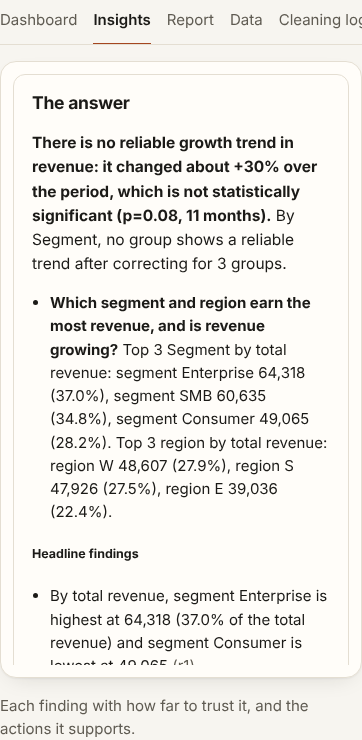
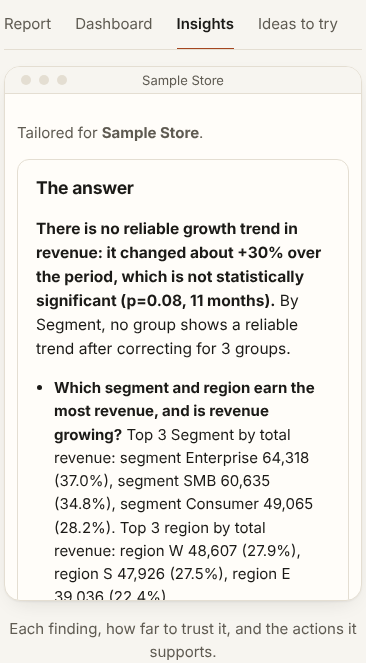
Task E: review fixes, screenshots, README and build log

diff --git a/frontend/src/start.css b/frontend/src/start.css
@@ -1,8 +1,8 @@
 /* The start page. Sections are on the 1120px column; reading text stops at 720px. */
 .start { display: grid; grid-template-columns: minmax(0, 1fr); gap: var(--sp-8); }
 .start > * { min-width: 0; }
-.start h2 { font-size: var(--fs-5); font-weight: 650; margin: 0 0 var(--sp-5); }
-.start h3 { margin: 0; font-size: var(--fs-3); font-weight: 600; }
+.start > section > h2 { font-size: var(--fs-5); font-weight: 650; margin: 0 0 var(--sp-5); }
+.how-flow h3, .trust h3, .limits h3, .story-steps h3 { margin: 0; font-size: var(--fs-3); font-weight: 600; }
 .hero { text-align: center; padding: var(--sp-6) 0 0; display: flex; flex-direction: column; align-items: center; gap: var(--sp-4); }
 .hero h1 { font-size: var(--fs-6); font-weight: 650; margin: 0; letter-spacing: -.025em; line-height: var(--lh-tight); max-width: none; text-wrap: balance; }
 .hero-sub { font-size: var(--fs-3); color: var(--muted); max-width: 52ch; margin: 0; }
@@ -34,7 +34,8 @@
 .how-flow h3 { margin-top: var(--sp-2); }
 .how-flow p { margin: 0 0 var(--sp-3); color: var(--muted); font-size: var(--fs-2); }
 .preview .drop { min-height: 300px; display: flex; flex-direction: column; justify-content: center; align-items: center; }
-.preview .plan ul { list-style: disc; padding-left: var(--sp-5); }
+.preview .plan ul { list-style: disc outside !important; padding-left: var(--sp-6) !important; margin: 0; }
+.preview .plan li { display: list-item; }
 .preview .plan h4 { margin: 0 0 var(--sp-2); }
 .preview { margin-top: auto; height: 200px; overflow: hidden; border: var(--border); border-radius: var(--radius); background: var(--card); pointer-events: none; }
 .preview-in { transform: scale(.5); transform-origin: top left; width: 200%; padding: var(--sp-4); }
@@ -65,9 +66,10 @@
   .story { grid-template-columns: 1fr; }
 }
 
-.trust { display: grid; grid-template-columns: repeat(3, minmax(0, 1fr)); column-gap: var(--gutter); }
+.trust { font-size: var(--fs-2); color: var(--ink); margin: 0; display: grid; grid-template-columns: repeat(3, minmax(0, 1fr)); column-gap: var(--gutter); }
 .trust > div { border-top: 1px solid var(--ink); padding-top: var(--sp-4); }
-.trust p { margin: var(--sp-2) 0 0; color: var(--muted); }
+.trust h3 { font-size: var(--fs-3); }
+.trust p { margin: var(--sp-2) 0 0; color: var(--muted); font-size: var(--fs-2); }
 .limits-cols { display: grid; grid-template-columns: repeat(2, minmax(0, 1fr)); column-gap: var(--gutter); }
 .limits-cols > div { border-top: var(--border); padding-top: var(--sp-4); }
 .limits ul { margin: var(--sp-3) 0 0; padding-left: var(--sp-5); display: grid; gap: var(--sp-2); color: var(--muted); }
@@ -78,7 +80,7 @@
   .hero-sub { font-size: var(--fs-2); }
   .trust, .limits-cols { grid-template-columns: 1fr; row-gap: var(--sp-5); }
   .start { gap: var(--sp-7); }
-  .start h2 { font-size: var(--fs-4); }
+  .start > section > h2 { font-size: var(--fs-4); }
   .window-body { padding: var(--sp-3); }
 }
 
@@ -90,3 +92,6 @@
 .start-form input[type="text"], .start-form input:not([type]), .start-form select, .start-form textarea { font: inherit; font-size: var(--fs-2); color: var(--ink); background: var(--bg); border: var(--border); border-radius: 10px; padding: var(--sp-3) var(--sp-4); width: 100%; }
 .start-form .primary { background: var(--brand); color: var(--brand-ink); border: 0; border-radius: 999px; padding: var(--sp-3) var(--sp-5); font: inherit; font-weight: 600; cursor: pointer; }
 .start-form .primary:disabled { opacity: .55; }
+
+/* the story window is a picture that follows the text: it must not take the scroll wheel from the page */
+.story-window .scaled { overflow: hidden; }

diff --git a/frontend/src/chat.css b/frontend/src/chat.css
@@ -2,7 +2,7 @@
 .chat { background: var(--card); border: var(--border); border-radius: var(--radius); display: flex; flex-direction: column; position: sticky; top: var(--sp-4); height: min(640px, calc(100vh - 2 * var(--sp-4))); overflow: hidden; }
 .chat-head { display: flex; justify-content: space-between; align-items: center; padding: var(--sp-3) var(--sp-4); border-bottom: var(--border); }
 .chat-head h2 { margin: 0; font-size: var(--fs-3); }
-.chat-list { flex: 1; overflow: auto; padding: var(--sp-4); display: flex; flex-direction: column; gap: var(--sp-3); }
+.chat-list { flex: 1; overflow: auto; position: relative; padding: var(--sp-4); display: flex; flex-direction: column; gap: var(--sp-3); }
 .chat-list > p { margin: 0; font-size: var(--fs-2); }
 .chat-pins { color: var(--muted); font-size: var(--fs-1); }
 .msg { max-width: 92%; padding: var(--sp-3) var(--sp-4); border-radius: var(--radius); font-size: var(--fs-2); }
@@ -15,7 +15,7 @@
 .chat-chart { width: 100%; height: auto; border-radius: 8px; background: #fff; }
 .msg-tools { display: flex; gap: var(--sp-4); font-size: var(--fs-1); }
 .chat-chips { display: flex; flex-wrap: wrap; gap: var(--sp-2); padding: var(--sp-3) var(--sp-4) 0; }
-.chat > .chat-chips { max-height: 128px; overflow-y: auto; }
+.chat > .chat-chips { max-height: 140px; overflow-y: auto; }
 .msg .chat-chips { padding: 0; }
 .chat-input { display: flex; gap: var(--sp-2); padding: var(--sp-3) var(--sp-4) var(--sp-4); }
 .chat-input input { flex: 1; min-width: 0; font: inherit; font-size: var(--fs-2); color: var(--ink); background: var(--bg); border: var(--border); border-radius: 999px; padding: var(--sp-2) var(--sp-4); }

diff --git a/scripts/landing_screenshots.js b/scripts/landing_screenshots.js
@@ -72,7 +72,7 @@ async function set(browser, name, viewport, mobile, scheme) {
       await page.waitForTimeout(120);
     }
   };
-  for (const [i, tag] of [[0, "story-1"], [3, "story-4"]]) {
+  for (const [i, tag] of [[0, "story-1"], [3, "story-4"], [4, "story-5"]]) {
     await toStep(i);
     await settle(page, 1300);
     await shot(tag);
@@ -89,6 +89,8 @@ async function set(browser, name, viewport, mobile, scheme) {
   await page.evaluate(() => window.scrollTo(0, 0));
   await page.waitForSelector(".report-page");
   await settle(page);
+  await page.evaluate(() => window.scrollTo(0, 0));
+  await page.waitForTimeout(300);
   await shot("report-top");
   await page.locator(".rp-chart").first().evaluate((el) => el.scrollIntoView({ block: "start" }));
   await settle(page, 500);
@@ -111,6 +113,11 @@ async function set(browser, name, viewport, mobile, scheme) {
   await page.emulateMedia({ media: "print" });
   await page.waitForTimeout(300);
   await shot("print-view");
+  await page.emulateMedia({ media: "screen" });
+  await page.goto(`${BASE}/#/glossary`, { waitUntil: "networkidle" });
+  await page.evaluate(() => window.scrollTo(0, 0));
+  await settle(page, 600);
+  await shot("glossary");
   await ctx.close();
 }
 

diff --git a/frontend/src/components/ChatPanel.tsx b/frontend/src/components/ChatPanel.tsx
@@ -71,7 +71,11 @@ export default function ChatPanel({ runId, onClose, embedded = false }: { runId:
     api.askInfo(runId).then((i) => { setInfo(i); setItems(i.history); }).catch(() => setError("Questions are not available for this report."));
   }, [runId]);
   useEffect(() => {
-    if (list.current) list.current.scrollTop = list.current.scrollHeight;      // new messages show at the bottom of the list; the page itself does not move
+    const l = list.current;
+    if (!l) return;
+    const all = l.querySelectorAll<HTMLElement>("[data-entry]");
+    const last = all[all.length - 1];      // show the start of the newest answer; the page itself does not move
+    l.scrollTop = busy ? l.scrollHeight : last ? last.offsetTop - 8 : 0;
   }, [items, busy]);
 
   async function send(body: { question?: string; chip?: string }) {
@@ -113,7 +117,7 @@ export default function ChatPanel({ runId, onClose, embedded = false }: { runId:
           </p>
         )}
         {items.map((e) => (
-          <div key={e.id}>
+          <div key={e.id} data-entry>
             <div className="msg me">{e.question}</div>
             <Answer entry={e} runId={runId} onAsk={ask} onPin={pin} />
           </div>

diff --git a/frontend/src/components/Results.tsx b/frontend/src/components/Results.tsx
@@ -45,7 +45,7 @@ export default function Results({ run }: { run: RunResult }) {
     <div className={`card results ${full ? "is-full" : ""}`} ref={card}>
       <div className="results-actions">
         <button className="btn-quiet" onClick={() => setReview((v) => !v)} title="See, change or re-ask the answers this run used">Review answers</button>
-        <button className="btn-quiet" onClick={toggleFull} title="Full screen (Esc to exit)">{full ? "Exit full screen" : "Full screen"}</button>
+        <button className="btn-quiet hide-phone" onClick={toggleFull} title="Full screen (Esc to exit)">{full ? "Exit full screen" : "Full screen"}</button>
         <a className="btn" href={api.powerbiUrl(run.run_id)}>Download Power BI pack</a>
       </div>
       <div className="tabs">

diff --git a/frontend/src/theme.css b/frontend/src/theme.css
@@ -54,3 +54,11 @@ code, pre, .mono { font-family: ui-monospace, SFMono-Regular, Menlo, Consolas, m
 .results-actions { display: flex; justify-content: flex-end; align-items: center; gap: var(--sp-2); flex-wrap: wrap; margin-bottom: var(--sp-3); }
 .results-actions .btn-quiet, .results-actions .btn { min-height: 36px; font-size: var(--fs-1); }
 .side-toggle { background: none; border: 0; color: var(--muted); font-size: var(--fs-1); box-shadow: none; padding: var(--sp-2) 0; cursor: pointer; }
+
+@media (max-width: 720px) {
+  .tabs { flex-wrap: nowrap; overflow-x: auto; scrollbar-width: none; }
+  .tabs::-webkit-scrollbar { display: none; }
+  .tab { flex: 0 0 auto; white-space: nowrap; }
+  .results-actions { justify-content: flex-start; }
+  .hide-phone { display: none; }
+}

diff --git a/frontend/src/polish.css b/frontend/src/polish.css
@@ -83,8 +83,6 @@ textarea:focus, .ctx-grid input:focus, .ctx-grid select:focus, .ctx-grid textare
 .recent-item { border-radius: 14px; background: var(--card); box-shadow: var(--shadow); transition: transform .15s, border-color .15s; padding: 12px 14px; }
 .recent-item:hover { transform: translateX(3px); }
 .dot-running, .dot-queued { animation: pulse 1.6s infinite; }
-.trust { display: flex; flex-wrap: wrap; justify-content: center; gap: 18px; margin: 22px 0 0; font-size: 12.5px; color: var(--muted); }
-.trust span::before { content: "✓"; color: var(--ok); font-weight: 700; margin-right: 6px; }
 
 /* run view / timeline */
 .side h3 { font-size: 13px; text-transform: uppercase; letter-spacing: .08em; color: var(--muted); }

diff --git a/frontend/src/landing.css b/frontend/src/landing.css
@@ -1,7 +1,6 @@
 /* Shared pieces kept from the earlier design: the agent flowchart, cards and small components. */
 .shell { max-width: 1180px; }
 .home { max-width: 1120px; }
-.home .form, .home .recent, .home .trust { max-width: 820px; margin-left: auto; margin-right: auto; }
 .home .form { margin-top: 8px; scroll-margin-top: 90px; }
 .home .recent { margin-top: 28px; }
 .ghost { display: inline-block; padding: 12px 20px; border-radius: 10px; font-weight: 600; font-size: 15px; color: var(--ink); text-decoration: none; border: 1px solid var(--line); background: var(--card); transition: border-color .15s, color .15s; }

diff --git a/frontend/src/components/StartPage.tsx b/frontend/src/components/StartPage.tsx
@@ -29,7 +29,7 @@ function Scaled({ children, design = 1040, height }: { children: React.ReactNode
     if (!el || typeof ResizeObserver === "undefined") return;
     const ro = new ResizeObserver(() => {
       const w = el.clientWidth;
-      setZoom(w >= 640 && w < design ? w / design : 1);
+      setZoom(w >= 520 && w < design ? w / design : 1);
     });
     ro.observe(el);
     return () => ro.disconnect();

diff --git a/scripts/build_log_v3.md b/scripts/build_log_v3.md
@@ -1,0 +1,92 @@
+# Build log: studio-v3
+
+Branch `studio-v3`, created from `studio-v2` (`4e253e1`, "Task 5: polish, screenshots and README"). `main`, `backup-cleaned` and `studio-v2` were not touched. Commits are plain messages with no attribution lines.
+
+## Result
+
+- **Full test suite:** 701 passed, 0 failed, in 141.9 s (2 min 22 s), on the final working tree (`cd backend && pytest tests -q`).
+- **Frontend:** `npm run build` (tsc + vite) passes. There is no frontend test framework in the repo, so the interface was checked with Playwright screenshots (see below), plus a script that measured the page for horizontal overflow on a phone.
+- **Report check on the shipped sample run:** 7 of 7 rules pass.
+- **Screenshots:** `docs/screenshots/` (1280x800 and 390x844, light and dark where listed). Taken by `scripts/landing_screenshots.js`. Two review rounds were used.
+
+## Done
+
+### Task A: start page, product first
+1. **Hero:** "Know your sales. Trust every number." (6 words), one supporting line, **Try it yourself** (primary) and **Try with sample data** (secondary). No upload form in the hero.
+2. **Try it yourself** opens a dialog (a full-screen sheet on a phone). It closes with Escape, the Close button, or a click outside; focus stays inside; focus returns to the button when it closes. It holds the whole existing flow: drag and drop, goal, company and the other fields, the "I'm not sure what to look for" option and the start button. **Try with sample data** opens the full app on the read-only sample run.
+3. **Product tour** under the hero: a tab row named after the app's real tabs, a framed window with a small title bar, a short fade, and one line under the frame that explains the tab. The window renders the real components (the same `TabBody` the results page uses) on the sample run, scaled to fit, clickable, with no AI and no upload. At 1280x800 the tab row and the top of the window are visible without scrolling.
+4. **How it works:** four numbered steps joined by a thin line, one sentence each, and a small inert preview of a real piece of the app for each. Under 800 px it is a vertical list with the line down the side.
+5. **Scroll story:** two columns, a sticky window on the left and five text blocks on the right ("It asks before it assumes", "Every figure is calculated by code", "Only what matters", "Ask questions about your report", "Print or save as PDF"). The window and the tour tab follow the block in view, including the report with the chat panel open and with the print panel open. With reduced motion it is a normal list.
+6. **Trust:** three statements, no icons, each a bold line and one sentence.
+7. **What it can and can't do:** two columns taken from the README's Known limits.
+8. **Closing block** with the same two buttons, then a quiet footer.
+- Header: logo, New analysis (opens the dialog at `#/new`), History, Glossary. The "Brain: rules-only" pill is gone from the header and from the results toolbar. The mode is a line in the report footer.
+
+### Task B: the report as a designed page
+- Backend: `reporter._page` saves the main view as data (`report_view.page`): the same cards, actions, figures and chart captions as the markdown, in the same words. No calculation or wording logic changed. Old runs without it fall back to the plain report.
+- Page: title, date, "How sure we are" pill, Print and Ask buttons top right; the short answer in large type; key figures as tiles of equal height; **What to do** as numbered cards (title, one line of why, the supporting figure); **The evidence** (at most six charts in a two-column grid, each with a title, direct value labels, "What this means" and a Details toggle); **Behind the numbers** (everything else, folded); a footer with the mode, the size of the data and the date.
+
+### Task C: one look for the whole app
+- Charts drawn by the server and by the interface share one style: the accent for the highlighted bar, warm grey for the rest, direct value labels, the same font. The dashboard was a dark canvas; it is now light and uses the same tokens, cards and tables. Tables share one style: light row lines, right-aligned numbers, sticky header (`layout.css`, `Md.tsx`).
+- Removed: the grid backdrop, the glass header, the blur on modals, the hero rules of the earlier landing page, the old `.trust` rule, the dark chart text colours and the blue chart bars.
+- Agent pills in the timeline are one neutral colour. Tab names are plain (**Ideas to try**, **Your data**, **What we cleaned**, **How we analysed**, **How files connect**, **Power BI export**) and shared by the results page and the tour (`tabs.ts`).
+- Internal reference ids such as "(r1)" and "(f4)" are no longer printed in the Insights tab (they stay as hover text). The Plan tab now says "Number we focus on", "Date used" and "What we left out" instead of "agent", "Target" and raw tool names.
+
+### Task D: a proper chatbot
+- **Entry and panel:** an **Ask about this report** button opens a chat panel docked on the right on a desktop (the report stays readable beside it) and a bottom sheet on a phone. It has a title, a message list, an input with Send, and 4 to 6 suggested-question chips written from this report's own content.
+- **Chips run without AI.** Each chip carries its operation and runs directly. A typed question that clearly matches a chip (close text) runs that chip. Anything else, with no model, gets the chips offered. The sample run never calls a model, even when one is configured.
+- **With a model:** the AI picks one operation from the closed list; code validates it against the run's real columns and values, runs it and draws the chart. A question that does not fit says so and offers two it can answer.
+- **Answers:** a plain sentence, a small table or chart, a **How this was calculated** toggle (operation and columns), Pin and Copy. Typing indicator, friendly error, per-run history kept in `chat.json` (the 50 latest).
+- **Flag:** `CHATBOT=auto` (default: on when a model is available and always on for the sample), `on` or `off`.
+- **Tests** (`backend/tests/test_ask_report.py`, fake AI only): every chip runs with the model call patched to fail; a chip's figure equals an independent pandas sum; a typed question matching a chip runs it with zero model calls; an unsupported question, an invented column and an invented value are refused politely; flag modes; the sample chat works for real through the API; the sample never calls a model.
+
+### Task E: self-review loop (two rounds)
+Round 1 found and fixed: the page opened already scrolled (the timeline preview auto-scrolled); the preview boxes were different heights; the sticky window did not stick (`overflow-x: hidden` on `html, body`, now `clip`); the chat panel started below the fold and its two scroll calls fought each other; the tile numbers split mid-number; the results toolbar wrapped into two rows; the toolbar and the chart cards were inconsistent; internal ids and agent wording were visible; dark chart text was unreadable on the light dashboard.
+Round 2 found and fixed: **the start page was 736 px wide on a 390 px phone** (the grid let the tab row set the column width; the overflow was hidden by the clip, so it was not visible in a screenshot until a tab could not be tapped), the story window captured the scroll wheel, the embedded chat rendered cramped and its title huge (start-page heading rules leaked into it), the trust section inherited a small grey style from an old rule, the question preview had no bullets, and the phone tab row wrapped onto three lines.
+
+## Skipped, partial, or different from the brief
+
+- **No frontend unit tests.** The repo has no frontend test setup, and adding one was outside "no new libraries unless really needed". Behaviour was checked in a real browser instead.
+- **"How it works" previews:** step 1 is a static copy of the drop zone's markup and classes, not the live upload component. Step 2 shows the plan's question list from the sample, because the real question form needs a run that paused to ask something, and the sample did not.
+- **Plain language is only partly achievable without changing wording logic.** The report's own sentences (the headline, the card lines, "Behind the numbers", the Insights tab) keep their analyst wording; I only removed the bracketed p-value from the headline in the display and left the sentence as it is. Everything the interface itself writes was rewritten in plain words.
+- **Charts already saved with older runs keep their old style.** Only new runs, and the regenerated sample, use the new chart style.
+- **Old runs without `report_view.page`** show the plain report with the print panel; they have no chat button.
+- **The chat history of the sample report is stored in the runs folder copy**, so visitors on one machine share it.
+- **Dark theme:** screenshots were taken of the start page and the report. The other views use the same tokens but were not each checked in dark.
+- **Removed screenshots:** `question-form.png`, `report-definitions.png`, `glossary-page.png`, `dash-17-top.png` and `dash-17-gallery.png` showed the earlier blue UI. The glossary and dashboard ones are replaced with new captures; the question form and definitions ones cannot be retaken without a run that asks questions, so their README lines were removed.
+- **Layout shift risk:** the tour window uses CSS `zoom`, which Firefox supports only from version 126.
+
+## Decisions
+
+- Branch, plain commit messages: as instructed.
+- **`report_view.page` is saved data**, not parsed from markdown, so the designed page cannot drift from the report; the markdown report is unchanged and still passes the seven report rules.
+- **Chips are generated by code** from the cleaned data (the first category column, the main number, the first date column) and map to the existing closed operations; the model is never involved in them.
+- **Typed text matches a chip only at 0.8 similarity or above**, so a vague question is never silently answered by a different one.
+- **`CHATBOT=auto`** treats the sample as always on and real runs as on only with a model, so the demo works without a key and a keyless real run does not show a chat that cannot type.
+- **The key figures drop "Columns"** and "Rows" is shown as "Records in your file", because they mean little to a seller.
+- **The tour's tabs** are the real tabs that exist on the sample (Report, Dashboard, Insights, Ideas to try, Your data, What we cleaned, How we analysed); "How files connect" and "Power BI export" are left out because the sample has one file and the Power BI tab needs no picture.
+- **Story window:** non-scrolling so it never takes the wheel from the page; the hero tour window scrolls.
+- **`html, body { overflow-x: clip }`** replaces `hidden`, which silently broke `position: sticky`.
+- **Chart colours:** accent for the highlight, `#CFC7B9` for everything else; the same two values in the server charts, the SVG charts and the chat charts.
+
+## Commits on `studio-v3`
+
+- `Task D1: chatbot chips, no-AI answers and history`
+- `Tasks A-D: product start page, designed report page, one look, chat panel`
+- `Task E: review fixes, screenshots, README and build log` (this log, README, screenshots and the fixes from the two review rounds)
+
+## How to try it
+
+```bash
+cd backend && pip install -r requirements.txt
+cd ../frontend && npm ci && npm run build
+cd ../backend && python -m uvicorn app.main:app --port 8000
+```
+
+Open http://127.0.0.1:8000. Press **Try with sample data**, then **Ask about this report** and pick a suggested question (no API key needed).
+
+```bash
+python scripts/report_check.py sample_data/demo/sales_run     # the seven report rules
+cd backend && pytest tests -q                                  # the full suite
+node scripts/landing_screenshots.js docs/screenshots both     # retake the screenshots (server running)
+```

diff --git a/README.md b/README.md
@@ -7,7 +7,7 @@ its own conclusions, and gives you a report plus a **Power BI starter pack**.
 **Free to build and run.** The heavy lifting (profiling, cleaning, statistics, charts) is plain Python. The LLM only
 plans, critiques and writes prose, and it can be a free local model, a free-tier API, or nothing at all.
 
-![The Analyst Studio start page, with the sample run](docs/screenshots/landing-top-desktop.png)
+![The Analyst Studio start page, with the product tour on the sample report](docs/screenshots/start-top-desktop.png)
 
 ```
  React UI ──upload + goal──▶ FastAPI ──▶ LangGraph workflow
@@ -103,9 +103,7 @@ data -> signals.py (neutral facts) -> question writer -> validator -> you answer
 
 > **The glossary API has no authentication.** Anyone who can reach the server can read, change or delete saved definitions, like the rest of this local-only app.
 
-![Question form](docs/screenshots/question-form.png)
-![Definitions used in the report](docs/screenshots/report-definitions.png)
-![Glossary page](docs/screenshots/glossary-page.png)
+![Glossary page](docs/screenshots/glossary-desktop.png)
 
 ## Derived metrics (ratios) are proposed, then checked against the data
 
@@ -150,8 +148,8 @@ Only the picture is trimmed. Every test, effect size, best/worst group and total
 | Tables | 10 rows, **Show all N** |
 | Dashboard | the goal answer first, then the four highest-scoring findings; the rest under **More charts** |
 
-![Dashboard on 17 regions](docs/screenshots/dash-17-top.png)
-![Goal answer and key findings](docs/screenshots/dash-17-gallery.png)
+![The dashboard, on the sample report](docs/screenshots/tour-dashboard-desktop.png)
+![The report page: the short answer, key figures and what to do](docs/screenshots/report-top-desktop.png)
 
 ## Insights and strategies
 
@@ -188,10 +186,13 @@ Try `sample_data/shop/` (customers + orders + products) with *"Why do customers 
 
 ## Try it without uploading anything
 
-Press **Try with sample data** on the start page. It opens a finished run of a small sales file (`sample_data/demo/sales_run/`, about 600 rows, a sample store): the same report, dashboard, data viewer, cleaning log and plan as a real run. The sample is **read-only**, makes **no AI calls** and needs no API key. The start page's product tour runs the same screens on it.
+Press **Try with sample data** on the start page. It opens a finished run of a small sales file (`sample_data/demo/sales_run/`, about 600 rows, a sample store): the same report, dashboard, data viewer, cleaning log and plan as a real run. The sample is **read-only**, makes **no AI calls** and needs no API key. **Try it yourself** opens a panel with the upload flow.
 
-- The tour shows the app's real screens: **Dashboard**, **Insights**, **Report**, **Data**, **Cleaning log** and **Plan**. Click a tab, or scroll the steps; a click overrides the scroll until the next step.
-- **Print / Save as PDF** (on the report tab) includes or leaves out the summary, key numbers, charts, tables, data-quality notes and evidence; sets the title, company, date and an optional note; and chooses A4 or Letter, portrait or landscape, colour or black and white. Your last choices are remembered in this browser only.
+The start page is a product page: a headline, two buttons, then a framed window running the real app on the sample. Its tabs are the app's real tabs: **Report**, **Dashboard**, **Insights**, **Ideas to try**, **Your data**, **What we cleaned** and **How we analysed** (plus **How files connect** and **Power BI export** on runs that have them). Below it are a four-step "How it works" flow, a scroll story whose window follows the text, three trust statements, and what it can and can't do. A click on a tab overrides the scroll until the next step; with reduced motion the story is a plain list.
+
+- **The report page** has the title, date and a "How sure we are" label; the short answer in large type; up to four key figures; **What to do** as numbered cards; **The evidence** (at most six charts, each with a one-line "What this means" and a Details toggle); and **Behind the numbers**, where everything else is folded away. The footer shows the mode (rules only, or AI-assisted).
+- **Print / Save as PDF** includes or leaves out the summary and actions, key numbers, charts, tables, data-quality notes and evidence; sets the title, company, date and an optional note; and chooses A4 or Letter, portrait or landscape, colour or black and white. Your last choices are remembered in this browser only.
+- **One look**: colours, six type sizes and the 4-point spacing scale are in `frontend/src/tokens.css`; the 1120 px / 720 px column and 12-column (4 on a phone) grid are in `layout.css`. Charts, tables and the dashboard share one style: the accent for the highlighted bar, warm greys for the rest, numbers right-aligned.
 
 ## Checking a report
 
@@ -199,9 +200,14 @@ Press **Try with sample data** on the start page. It opens a finished run of a s
 
 Each run also keeps `ai_usage.json`: every AI call with its stage, input and output tokens (flagged as estimated when the provider gives no count), whether it was answered from a saved result, and its time. The report's data section has one line with the totals, and `scripts/scorecard.py` prints a per-stage table.
 
-## Ask about this report (optional, off by default)
+## Ask about this report
 
-With `CHATBOT=on`, the report tab shows **Ask about this report**. The AI chooses **one** operation from a closed list (top N by a measure, compare two groups, trend of a measure, share of the total, or filter then total) and its parameters. Code checks those parameters against the run's real columns and values, computes the answer on the cleaned data and draws the chart. Every figure comes from code. A question that fits none of the operations is said so plainly, with two questions the report can answer. The sample run never answers questions, since it makes no AI calls.
+On the report page, **Ask about this report** opens a chat panel docked on the right (a bottom sheet on a phone), so you can read and ask at once. Above the input are 4 to 6 **suggested questions written from this report's own data** (for example "Which Segment earns the most revenue?", "Is revenue growing?", "Compare Enterprise and SMB").
+
+- A suggested question runs **without an AI model**: code maps it straight to one operation. That is why the chat works for real on the sample report, and on any report when no API key is set. Typed text is answered only when it clearly matches a suggestion; otherwise the panel offers the suggestions.
+- With an AI model, typed questions work too. The AI picks **one** operation from a closed list (top N by a measure, compare two groups, trend of a measure, share of the total, or filter then total) and its parameters. Code checks them against the run's real columns and values, runs the operation on the cleaned data and draws the chart. A question that fits none of them is said so plainly, with two questions the report can answer.
+- Every answer has a plain sentence, a small table or chart, and a **How this was calculated** toggle that names the operation and the columns. Every figure comes from code. Answers can be pinned or copied, and each run keeps its chat history (`chat.json` in the run folder).
+- `CHATBOT=auto` (default): on when an AI model is available, and always on for the sample run. `CHATBOT=on` shows it on every report; `CHATBOT=off` hides it. The sample run never calls a model, even when one is configured.
 
 ## Quick start
 
@@ -257,7 +263,7 @@ registration and a Power BI Pro licence, so it is not part of the free path).
 ## Tests
 
 ```bash
-cd backend && pytest -q        # 699 tests: pipeline, API, edge cases, multi-table joins, clarifying questions and glossary, derived metrics, report tiers, run safety, LLM failure modes (fake model, no network)
+cd backend && pytest -q        # 701 tests: pipeline, API, edge cases, multi-table joins, clarifying questions and glossary, derived metrics, report tiers, run safety, LLM failure modes (fake model, no network)
 ```
 
 **Scorecard.** `python scripts/scorecard.py [--dataset mall] [--runs N]` runs the real pipeline on a built-in test dataset (Kaveri, 3 files; or mall, 40 000 rows) and checks the report against a known answer in 12 checks. Both datasets were built for this project. Latest recorded results: Kaveri 12/12 and mall 12/12 (25 Oct 2026). See `docs/facts.md` for measured limits, timings and storage.
@@ -268,8 +274,8 @@ cd backend && pytest -q        # 699 tests: pipeline, API, edge cases, multi-tab
 backend/app/   profiler.py  relations.py  brief.py  signals.py  placeholders.py  clarify.py  directives.py  glossary.py  planner.py  derived.py  derived_check.py
                measures.py  polarity.py  retail_roles.py  cleaner.py  tools.py  critic.py  insights.py  strategy.py  summary.py  tiering.py  goal.py
                wording.py  reporter.py  powerbi.py  dashboard.py  graph.py (LangGraph)  llm.py (providers)  runner.py  events.py  main.py (FastAPI)
-backend/tests/ 699 tests        scripts/  scorecard.py  make_mall.py        docs/  facts.md  decision_points.md  flow_audit.md
-frontend/src/  App.tsx  tokens.css (colours, type and spacing: the only values new code uses)  components/ (Landing = product tour, UploadForm, QuestionForm, RunView, Results, PrintPanel, AskReport, BIDashboard, InsightCard, StrategyView, DataViewer, DataModel, Glossary, History, ...)
+backend/tests/ 701 tests        scripts/  scorecard.py  make_mall.py        docs/  facts.md  decision_points.md  flow_audit.md
+frontend/src/  App.tsx  tokens.css (colours, type and spacing: the only values new code uses)  layout.css (the grid)  components/ (StartPage = the product page, Dialog, UploadForm, QuestionForm, RunView, Results, ReportPage, ChatPanel, PrintPanel, BIDashboard, InsightCard, StrategyView, DataViewer, DataModel, Glossary, History, ...)
 sample_data/   sales.csv  churn.csv  shop/{customers,orders,products}.csv  mall/ (40 000-row scorecard dataset with truth.json)  demo/sales_run/ (the read-only sample run)
 scripts/       report_check.py  scorecard.py  landing_screenshots.js  design_notes.md  build_log.md
 ```
@@ -293,7 +299,6 @@ To delete everything, stop the server and remove `backend/data/`. To keep runs f
 
 - The sample run is built from `sample_data/sales.csv`, not the Kaveri dataset named in the design brief: Kaveri is not in this repository.
 - Printing covers the report tab only. The cleaning log and plan are separate tabs and are not part of the printed report.
-- The product tour shows the dashboard as the app draws it, which is still the dark dashboard style; the rest of the landing page uses the light palette.
 - Charts are static images (PNG), not interactive: you can click to enlarge but not filter them. Power BI is the place for interactive slicing; the pack is built for that.
 - Non-English column names need a system font that has those letters (Nirmala UI on Windows, Noto Sans elsewhere).
 
